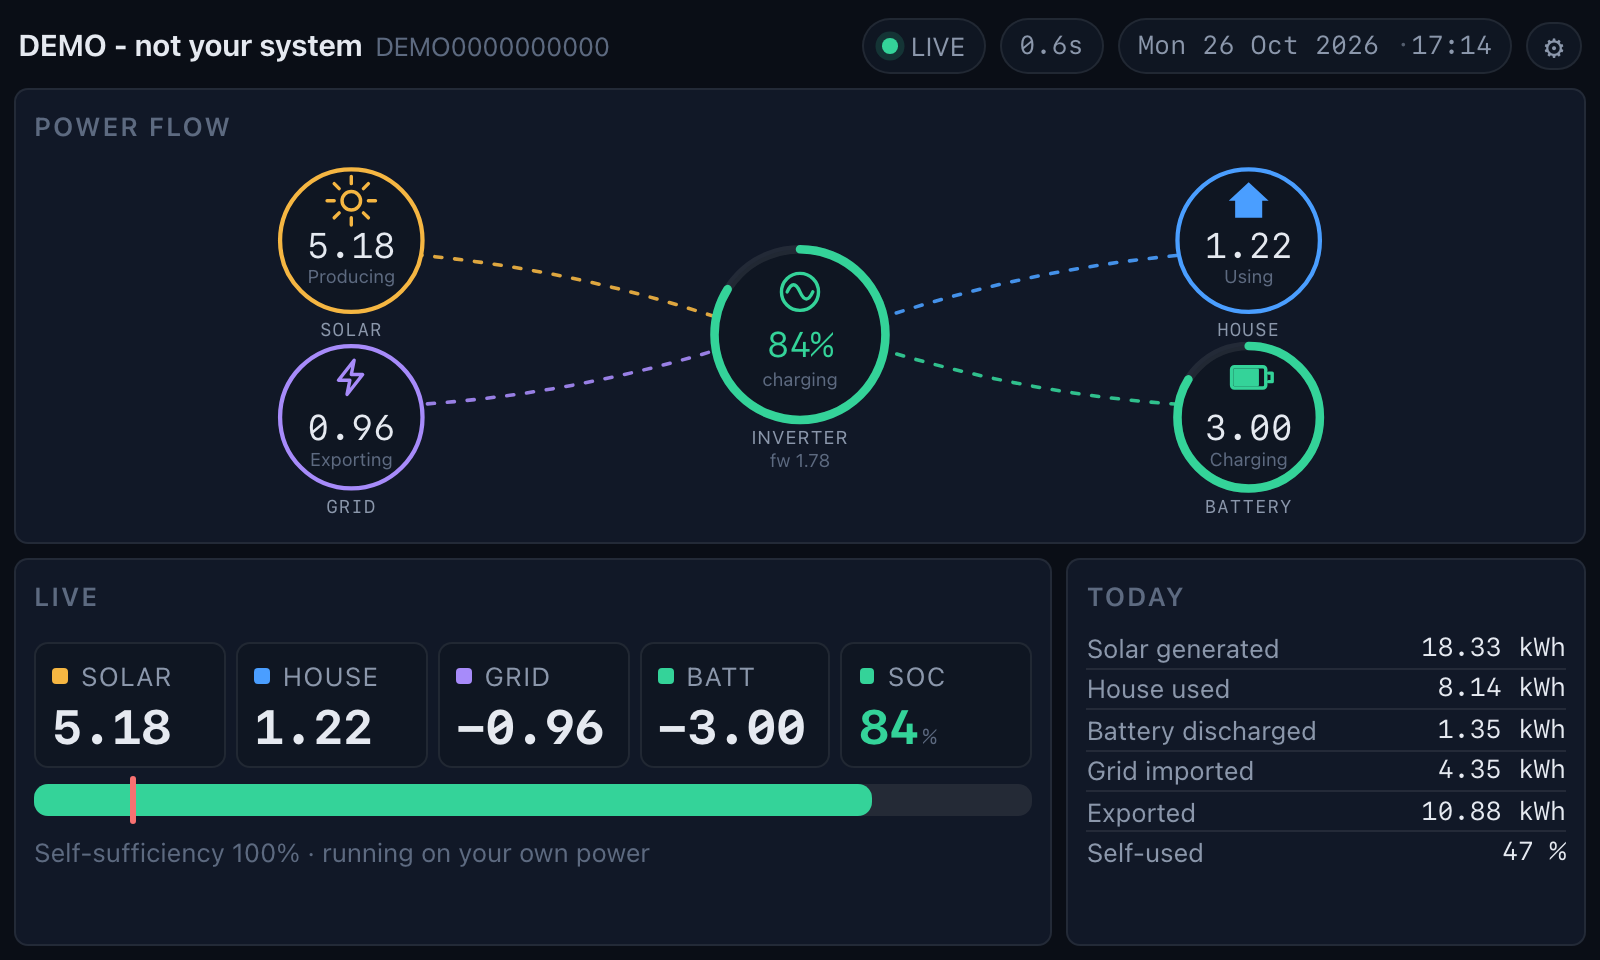
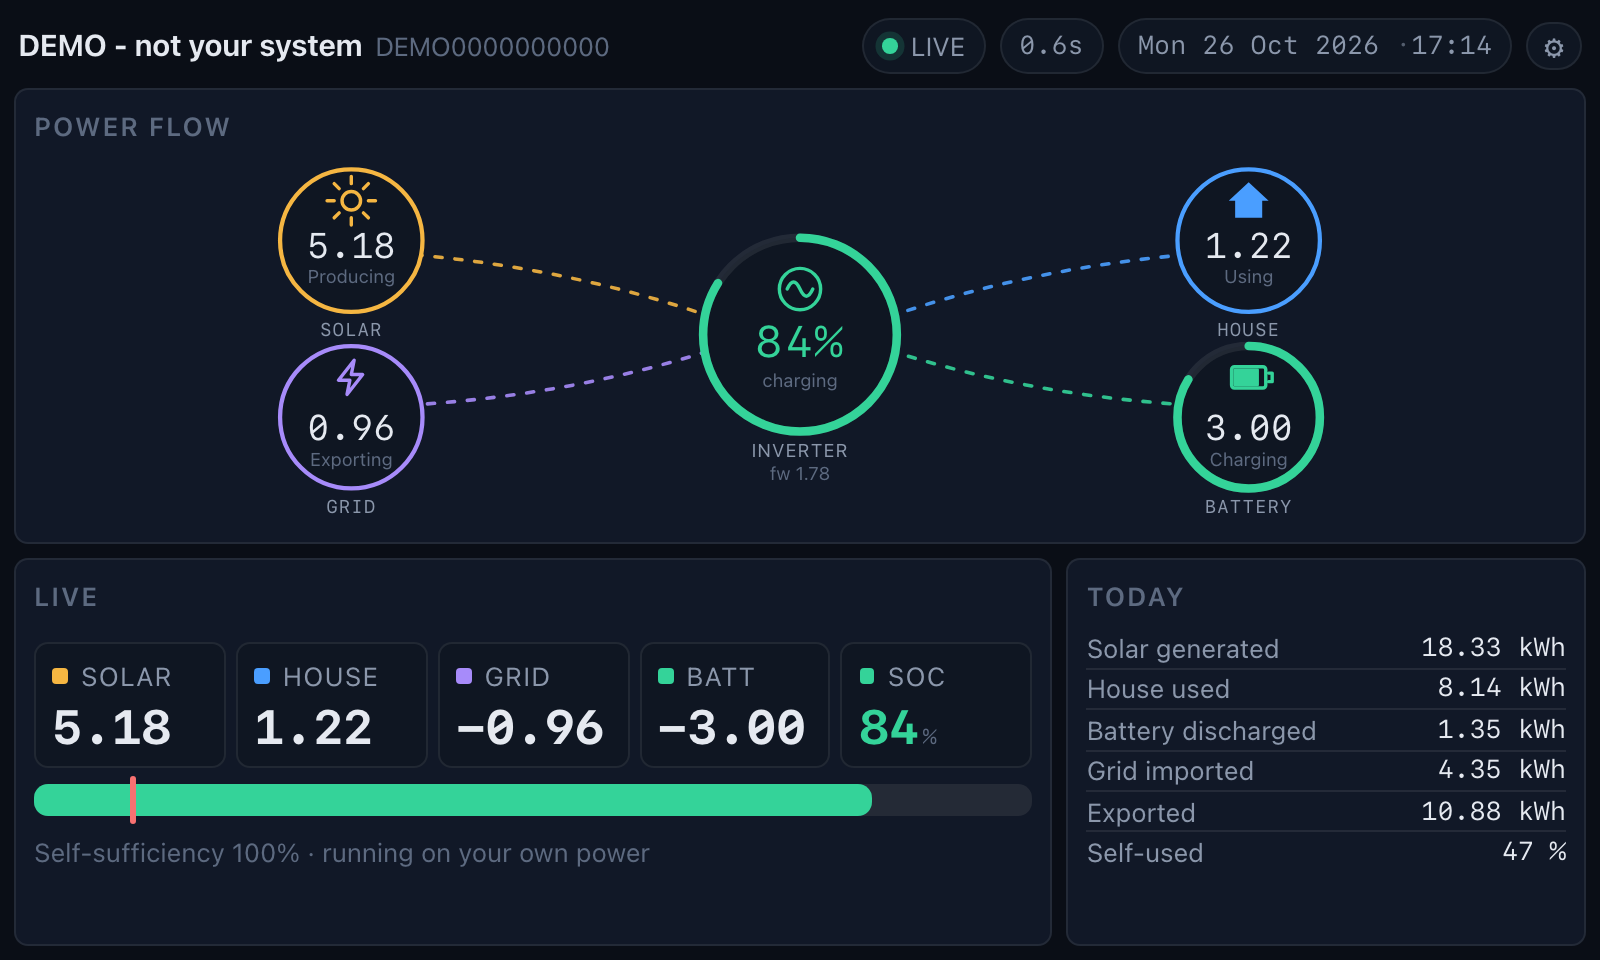
The hub says it is the hub.
The inverter's ring on the Power Flow slide is a little bigger than the
four around it, and the charge level in the middle is the biggest number
on the diagram.  It was 60 against the satellites' 50, which was there
but too slight to read from across a room; it is now 68, and the level
has gone from 25 to 31.

The wires end exactly on the edge of the ring they join, so growing the
hub meant measuring them out again.  The test that checks it now reads
the radii out of the markup rather than writing them down, so a radius
can change without the test going stale - and a wire that stops
reaching its ring is still caught.

Release 2026-10-27.4

diff --git a/static/index.html b/static/index.html
@@ -342,6 +342,9 @@ body[data-diagram="rings"] .socbar{margin-bottom:.15em}
 .ringsvg .rarc{fill:none;stroke-width:6;stroke-linecap:round;
                transition:stroke-dasharray .4s ease, stroke .4s ease}
 .ringsvg .rval{font-family:var(--font-mono);font-size:25px;fill:var(--text)}
+/* the hub's level is the point of the diagram, so its number is bigger
+   than the satellites' */
+.ringsvg .rval.rhub{font-size:31px}
 .ringsvg .rname{font-family:var(--font-mono);font-size:13px;fill:var(--muted);
                 letter-spacing:.06em}
 .ringsvg .rstatus{font-family:var(--font-ui);font-size:13px;fill:var(--dim)}
@@ -808,22 +811,24 @@ body .dash[data-slide="weather"]{
           <text class="fname" x="570" y="260" text-anchor="middle">BATTERY</text>
         </svg>
         <svg class="flowsvg ringsvg" id="ringsSvg" viewBox="0 0 900 258" preserveAspectRatio="xMidYMid meet">
-          <path id="rLinePv"   class="rwire moving" d="M183.9 68.3 Q290.0 78.3 391.3 111.7"  stroke="var(--pv)"/>
-          <path id="rLineLoad" class="rwire moving" d="M508.7 111.7 Q610.0 78.3 716.1 68.3"  stroke="var(--load)"/>
-          <path id="rLineGrid" class="rwire moving" d="M184.2 172.9 Q289.8 165.7 391.0 134.9" stroke="var(--grid)"/>
-          <path id="rLineBat"  class="rwire moving" d="M509.0 134.9 Q610.2 165.7 715.8 172.9" stroke="var(--bat)"/>
+          <!-- The wires end on the hub's edge, so they are measured out to
+               its radius: 68 for the hub, 50 for the satellites. -->
+          <path id="rLinePv"   class="rwire moving" d="M183.93 68.31 Q290.0 78.3 383.45 110.05"  stroke="var(--pv)"/>
+          <path id="rLineLoad" class="rwire moving" d="M516.55 110.05 Q610.0 78.3 716.07 68.31"  stroke="var(--load)"/>
+          <path id="rLineGrid" class="rwire moving" d="M184.17 172.91 Q289.8 165.7 383.13 136.35" stroke="var(--grid)"/>
+          <path id="rLineBat"  class="rwire moving" d="M516.87 136.35 Q610.2 165.7 715.83 172.91" stroke="var(--bat)"/>
 
           <circle class="rnode" id="rRingPv"   cx="135" cy="58"  r="50" stroke="var(--pv)"/>
           <circle class="rnode" id="rRingLoad" cx="765" cy="58"  r="50" stroke="var(--load)"/>
           <circle class="rnode" id="rRingGrid" cx="135" cy="182" r="50" stroke="var(--grid)"/>
           <circle class="rnode" cx="765" cy="182" r="50" stroke="none"/>
-          <circle class="rnode" cx="450" cy="124" r="60" stroke="none"/>
+          <circle class="rnode" cx="450" cy="124" r="68" stroke="none"/>
           <circle class="rtrack" id="rTrackBat" cx="765" cy="182" r="50"/>
-          <circle class="rtrack" id="rTrackHub" cx="450" cy="124" r="60"/>
+          <circle class="rtrack" id="rTrackHub" cx="450" cy="124" r="68"/>
           <circle class="rarc" id="rRingBat"  cx="765" cy="182" r="50" pathLength="100"
                   stroke="var(--bat)" stroke-dasharray="0 100"
                   transform="rotate(-90 765 182)"/>
-          <circle class="rarc" id="rRingHub"  cx="450" cy="124" r="60" pathLength="100"
+          <circle class="rarc" id="rRingHub"  cx="450" cy="124" r="68" pathLength="100"
                   stroke="var(--bat)" stroke-dasharray="0 100"
                   transform="rotate(-90 450 124)"/>
 
@@ -845,8 +850,8 @@ body .dash[data-slide="weather"]{
             <rect id="rBatFill" x="-10.8" y="-6.3" width="0" height="12.6" rx="1"
                   fill="var(--bat)" stroke="none"/>
           </g>
-          <g id="rIcoHub" class="ricon" transform="translate(450,94)">
-            <circle cx="0" cy="0" r="13" fill="none"/>
+          <g id="rIcoHub" class="ricon" transform="translate(450,92)">
+            <circle cx="0" cy="0" r="14.5" fill="none"/>
             <path d="M-9 0 Q-4.5 -10 0 0 T9 0" fill="none"/>
           </g>
 
@@ -866,10 +871,12 @@ body .dash[data-slide="weather"]{
           <text class="rstatus" x="765" y="216" text-anchor="middle" id="rBatSt">Idle</text>
           <text class="rname"   x="765" y="249" text-anchor="middle">BATTERY</text>
 
-          <text class="rval"   x="450" y="140" text-anchor="middle" id="rHubVal">0%</text>
-          <text class="rstatus" x="450" y="160" text-anchor="middle" id="rHubSt">idle</text>
-          <text class="rhub"   x="450" y="201" text-anchor="middle">INVERTER</text>
-          <text class="rstatus" x="450" y="217" text-anchor="middle" id="rHubModel">-</text>
+          <!-- the hub's level is the point of the diagram, so its number is
+               the largest on it, and its labels sit below the bigger ring -->
+          <text class="rval rhub" x="450" y="140" text-anchor="middle" id="rHubVal">0%</text>
+          <text class="rstatus" x="450" y="161" text-anchor="middle" id="rHubSt">idle</text>
+          <text class="rhub"   x="450" y="210" text-anchor="middle">INVERTER</text>
+          <text class="rstatus" x="450" y="226" text-anchor="middle" id="rHubModel">-</text>
         </svg>
       </div>
       <div class="flowhint" id="flowHint"></div>
@@ -1168,7 +1175,7 @@ function renderRings(s){
   setText($("rHubModel"), M.manager_version ? "fw "+M.manager_version : "-");
   setAttr($("rRingHub"), "stroke", health);
   setAttr($("rRingHub"), "stroke-dasharray", Math.round(lvl)+" 100");
-  setAttr($("rHubVal"), "class", "rval "+healthClass);
+  setAttr($("rHubVal"), "class", "rval rhub "+healthClass);
   setAttr($("rIcoHub"), "stroke", health);
 
   // -- solar --

diff --git a/tests/test_diagram.py b/tests/test_diagram.py
@@ -313,11 +313,12 @@ class TestRingWireBend(unittest.TestCase):
         Every wire runs between two nodes - a satellite on one side and the
         hub on the other - so each of its two ends is checked against the
         ring it belongs to.
+
+        The rings are read out of the markup rather than written out here,
+        so that the hub can be made bigger without this test going stale -
+        it would still catch a wire that no longer reaches the ring.
         """
-        # node id -> (centre x, centre y, radius)
-        rings = {"PV": (135, 58, 50), "LOAD": (765, 58, 50),
-                 "GRID": (135, 182, 50), "BATT": (765, 182, 50),
-                 "HUB": (450, 124, 60)}
+        rings = self._rings()
         # wire id -> the node at each end, in the order the path is drawn
         ends = {"rLinePv": ("PV", "HUB"), "rLineLoad": ("HUB", "LOAD"),
                 "rLineGrid": ("GRID", "HUB"), "rLineBat": ("HUB", "BATT")}
@@ -328,6 +329,35 @@ class TestRingWireBend(unittest.TestCase):
                 distance = math.hypot(point[0] - cx, point[1] - cy)
                 self.assertAlmostEqual(distance, radius, delta=0.5,
                                        msg=f"{wire} endpoint left the {node} ring")
+
+    def _rings(self) -> dict:
+        """Every ring in the diagram: centre and radius, from the markup."""
+        names = {"rRingPv": "PV", "rRingLoad": "LOAD", "rRingGrid": "GRID",
+                 "rRingBat": "BATT", "rRingHub": "HUB"}
+        rings = self.index[self.index.index('id="ringsSvg"'):]
+        out = {}
+        for match in re.finditer(
+                r'<circle[^>]*?\sid="(rRing\w+)"[^>]*?\scx="([\d.]+)"'
+                r'\s+cy="([\d.]+)"[^>]*?\sr="([\d.]+)"', rings):
+            name = names.get(match.group(1))
+            if name:
+                out[name] = (float(match.group(2)), float(match.group(3)),
+                             float(match.group(4)))
+        return out
+
+    def test_the_hub_is_a_bigger_ring_than_the_satellites(self):
+        """The inverter is the middle of the diagram, so it says so."""
+        rings = self._rings()
+        self.assertGreater(rings["HUB"][2], rings["PV"][2])
+        for node in ("PV", "LOAD", "GRID", "BATT"):
+            self.assertEqual(rings[node][2], rings["PV"][2],
+                             f"{node} is a different size from the others")
+
+    def test_the_hubs_level_is_the_biggest_number_on_the_diagram(self):
+        """The state of charge is the point of the hub."""
+        self.assertIn(".ringsvg .rval.rhub{font-size:31px}", self.index)
+        self.assertIn('setAttr($("rHubVal"), "class", "rval rhub "+healthClass)',
+                      self.index)
 
     def test_the_diagram_stays_mirror_symmetric(self):
         """Solar mirrors house, and grid mirrors battery, about x=450."""

diff --git a/foxess/config.py b/foxess/config.py
@@ -29,7 +29,7 @@ from typing import Any
 KEEP = "__KEEP__"
 
 #: Build stamp, so it is obvious at a glance which version is running.
-BUILD = "2026-10-27.3"
+BUILD = "2026-10-27.4"
 
 #: What the API returns in place of a secret.
 MASK = "********"

diff --git a/docs/RELEASE-2026-10-27.4.md b/docs/RELEASE-2026-10-27.4.md
@@ -1,0 +1,42 @@
+# Release 2026-10-27.4 — the hub says it is the hub
+
+The inverter's ring on the Power Flow slide is a little bigger than the
+four around it, and the state of charge in the middle is the biggest
+number on the screen.
+
+## What changed
+
+The hub's ring was 60 units across, the satellites' 50 — a difference
+that was there, but too slight to read from across a room. It is now 68,
+so the inverter is plainly the middle of the diagram rather than one
+ring among five.
+
+The charge level went with it: 31 points against the satellites' 25, so
+the one number the hub exists to show is the one you see first. The
+inverter's own little wave mark grew to match.
+
+The labels under the hub — `INVERTER` and the firmware version — moved
+down by a few points, because the bigger ring now reaches further down
+and they were in its way.
+
+## The wires
+
+The four dashed wires end exactly on the edge of the ring they join, so
+growing the hub meant measuring them out again: the hub's end of each
+wire moved further out, from 60 to 68, and the satellites' ends were
+tidied up to the same standard.
+
+That is not a thing to leave to the eye, so the test that checks it now
+reads the radii out of the markup rather than writing them down. A
+radius can change without the test going stale, and a wire that stops
+reaching its ring is still caught.
+
+## Testing
+
+- 392 tests (was 390): the rings' geometry — that the hub is the
+  bigger ring, that every wire still lands on the ring it belongs to,
+  and that the hub's level is the largest number on the diagram.
+- The layout check: all 48 viewports fit on one screen, no scrolling.
+- The flow-direction check: 34 animated wires across 6 states and 2
+  diagrams, all still pointing the way the power is going.
+- The dark and light themes were both looked at.

diff --git a/README.md b/README.md
@@ -126,6 +126,10 @@ right now. The flow lines are dotted and carry moving dashes in the direction
 the power is actually going, and a line only appears when there is power on
 it — so an idle system stays calm instead of flickering.
 
+The hub's ring is a little bigger than the four around it, and the level in
+the middle is the biggest number on the diagram — the inverter is the centre
+of it, and that is where the eye should land first.
+
 **The battery level is a ring.** The hub and the battery node both show the
 state of charge as an arc that fills clockwise from the top, and the colour
 tells you how healthy the pack is:
@@ -146,7 +150,7 @@ is busy showing the battery.
 | Style | 800×480 |
 |---|---|
 | Flow | values at 26 px, one row of nodes |
-| Rings | values at 21 px, a hub and four rings |
+| Rings | values at 21 px, a hub and four rings — the hub's level at 27 px |
 
 Both styles are checked at every viewport size by `layout_check.py`, so
 neither can quietly break the other.
@@ -814,7 +818,7 @@ foxess-dashboard/
 python3 -m unittest discover -s tests -v
 ```
 
-388 tests covering unit conversion (W → kW, kW passthrough), charge/discharge
+392 tests covering unit conversion (W → kW, kW passthrough), charge/discharge
 direction, grid import vs export, the device-level timestamp quirk of the v1
 real/query endpoint, the Open API signature, secret masking and file
 permissions — and the parts that are easy to get wrong: watts against
